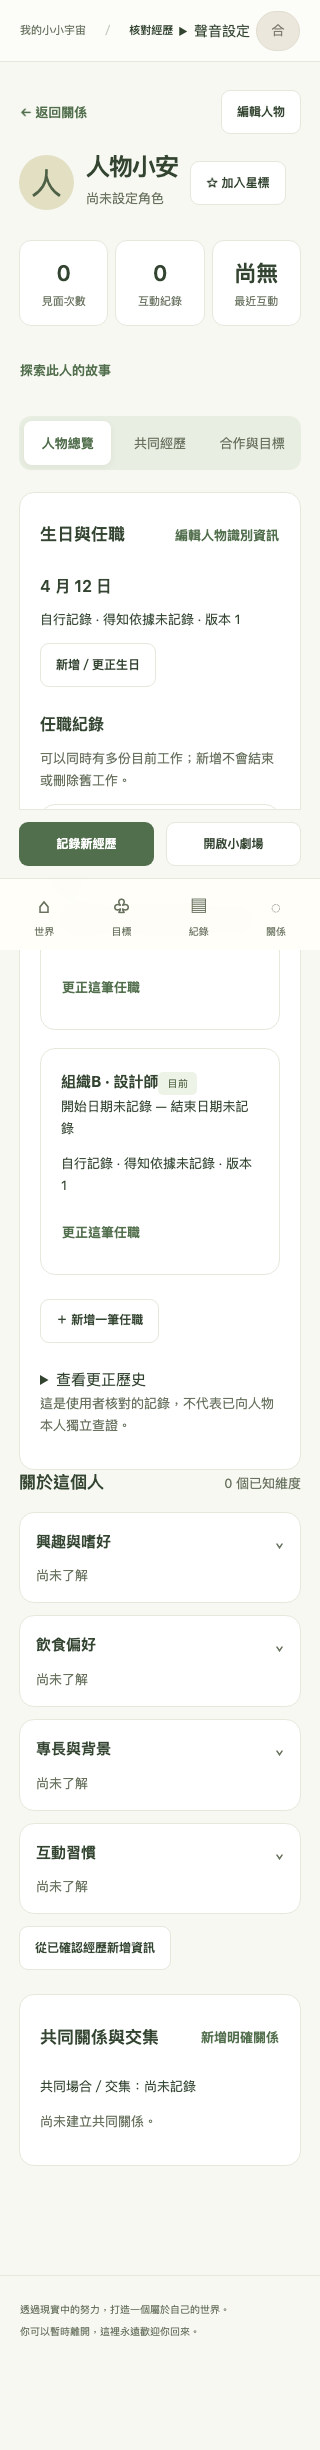
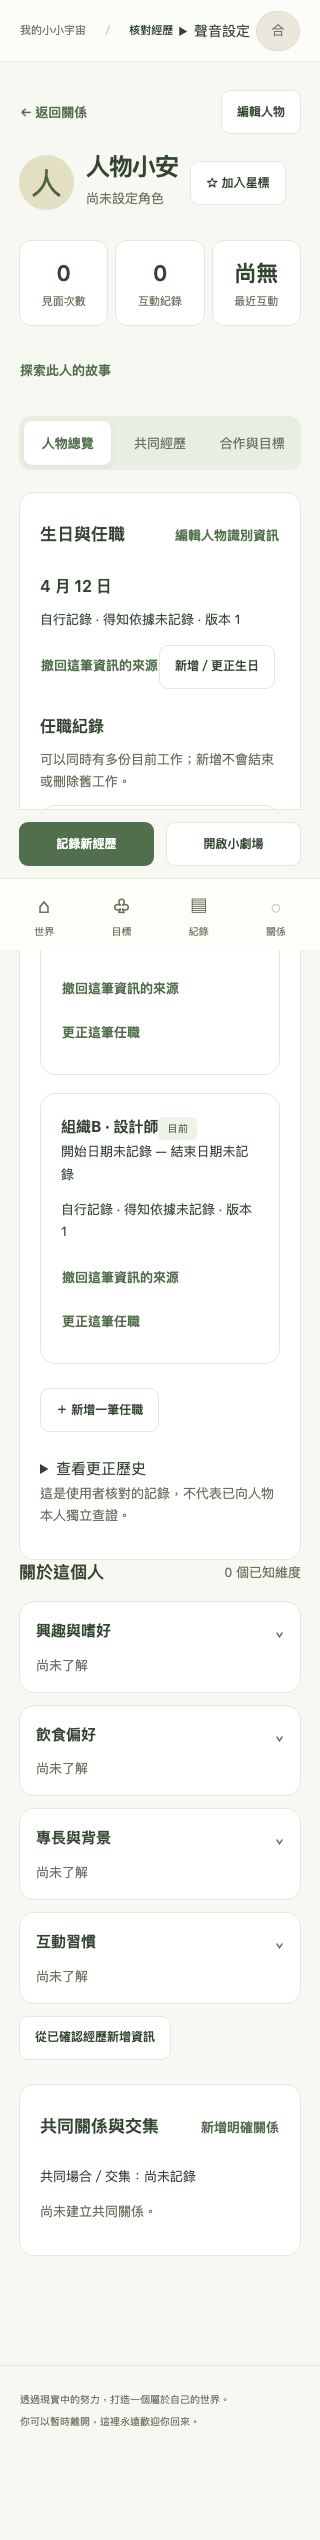
Add explicit person detail source withdrawal with atomic history and isolation tests

diff --git a/app/static/person_details.js b/app/static/person_details.js
@@ -1,24 +1,37 @@
 'use strict';
 /** 人物詳情的生日與任職，以正式API讀寫；不推算年齡、不呼叫AI、不把工作塞進標籤。 */
 window.PersonDetailsUI=(()=>{
- let c,current=null,editing=null;
+ let c,current=null,editing=null,withdrawal=null;
  const h=v=>c.esc(v),owner=()=>c.state.me?.owner_id||'',id=v=>encodeURIComponent(v);
  const status={current:'目前',past:'過去',unknown:'未知'};
  function initialize(context){c=context;current=null;editing=null;}
  function birthday(v){return v?.birth_month?`${v.birth_year?`${v.birth_year} 年 `:''}${v.birth_month} 月 ${v.birth_day} 日`:'未記錄生日';}
  function sourceButton(v){return v?.source_experience_id?`<button class="text-button" data-action="basic-source" data-source-id="${h(v.source_experience_id)}">查看原始經歷來源</button>`:'';}
+ function withdrawButton(v,kind){return v?.source_status==='active'?`<button class="text-button" data-action="basic-withdraw" data-kind="${kind}" data-employment-id="${h(v.id||'')}">撤回這筆資訊的來源</button>`:'';}
  function provenance(v){return `${{manual:'自行記錄',raw:'經歷原文'}[v.source_kind]||'待核對'} · ${{stated_by_person:'人物本人告知',observed_by_user:'使用者觀察',documented_source:'文件記載'}[v.evidence_type]||'得知依據未記錄'}${v.source_status==='withdrawn'?' · 來源已撤回，待核對':''}`;}
  function work(v){return `<strong>${h([v.company_name,v.job_title].filter(Boolean).join(' · '))}</strong><span class="tag">${h(status[v.employment_status])}</span><p class="small">${h(v.valid_from||'開始日期未記錄')} — ${h(v.valid_to||'結束日期未記錄')}</p>`;}
  async function view(pid){const ticket=owner();let data;try{data=await c.api('/people/'+id(pid)+'/details');}catch(e){if(e.status===503)return '<section class="card"><h2>生日與任職</h2><p>此環境尚未完成基本資料契約與權限驗收，目前不開放輸入。</p></section>';throw e;}if(owner()!==ticket)return '';current={owner:ticket,pid,data};
   const canEdit=data.person.status!=='archived';
-  return `<section class="card person-basic-panel"><div class="section-title"><h2>生日與任職</h2>${c.link('persons-edit/'+id(pid),'編輯人物識別資訊','text-button')}</div><div class="basic-birthday"><h3>${h(birthday(data.birthday))}</h3>${data.birthday?`<p class="small">${h(provenance(data.birthday))} · 版本 ${data.birthday.revision}</p>${sourceButton(data.birthday)}`:''}${canEdit?'<button class="secondary" data-action="basic-birthday">新增／更正生日</button>':''}</div><h3 class="space-top">任職紀錄</h3><p class="small muted">可以同時有多份目前工作；新增不會結束或刪除舊工作。</p><div class="stack">${data.employments.map(e=>`<article class="card">${work(e)}<p class="small">${h(provenance(e))} · 版本 ${e.revision}</p>${sourceButton(e)}${canEdit?`<button class="text-button" data-action="basic-work" data-employment-id="${h(e.id)}">更正這筆任職</button>`:''}</article>`).join('')||'<p>尚無任職紀錄。</p>'}</div>${canEdit?'<button class="secondary space-top" data-action="basic-work">＋ 新增一筆任職</button>':''}<details class="space-top"><summary>查看更正歷史</summary>${data.birthday_history.map(v=>`<p>生日 · 版本 ${v.revision}：${h(birthday(v))} · ${h(provenance(v))}</p>`).join('')}${data.employment_history.map(v=>`<div>任職 · 版本 ${v.revision}：${work(v)}</div>`).join('')||'<p class="small">尚無任職異動。</p>'}</details><p class="small muted">這是使用者核對的記錄，不代表已向人物本人獨立查證。</p></section>`;
+  return `<section class="card person-basic-panel"><div class="section-title"><h2>生日與任職</h2>${c.link('persons-edit/'+id(pid),'編輯人物識別資訊','text-button')}</div><div class="basic-birthday"><h3>${h(birthday(data.birthday))}</h3>${data.birthday?`<p class="small">${h(provenance(data.birthday))} · 版本 ${data.birthday.revision}</p>${sourceButton(data.birthday)}${canEdit?withdrawButton(data.birthday,'birthday'):''}`:''}${canEdit?'<button class="secondary" data-action="basic-birthday">新增／更正生日</button>':''}</div><h3 class="space-top">任職紀錄</h3><p class="small muted">可以同時有多份目前工作；新增不會結束或刪除舊工作。</p><div class="stack">${data.employments.map(e=>`<article class="card">${work(e)}<p class="small">${h(provenance(e))} · 版本 ${e.revision}</p>${sourceButton(e)}${canEdit?withdrawButton(e,'employment'):''}${canEdit?`<button class="text-button" data-action="basic-work" data-employment-id="${h(e.id)}">更正這筆任職</button>`:''}</article>`).join('')||'<p>尚無任職紀錄。</p>'}</div>${canEdit?'<button class="secondary space-top" data-action="basic-work">＋ 新增一筆任職</button>':''}<details class="space-top"><summary>查看更正歷史</summary>${data.birthday_history.map(v=>`<p>生日 · 版本 ${v.revision}：${h(birthday(v))} · ${h(provenance(v))}</p>`).join('')}${data.employment_history.map(v=>`<div>任職 · 版本 ${v.revision}：${work(v)}</div>`).join('')||'<p class="small">尚無任職異動。</p>'}</details><p class="small muted">這是使用者核對的記錄，不代表已向人物本人獨立查證。</p></section>`;
  }
  function sourceFields(v){return `<details class="space-top"><summary>資訊依據（選填）</summary><label>這項資訊從何得知？<select name="evidence_type"><option value="">自行記錄／目前不知道</option>${Object.entries({stated_by_person:'人物本人告知',observed_by_user:'我觀察到',documented_source:'文件記載'}).map(([k,n])=>`<option value="${k}"${v?.evidence_type===k?' selected':''}>${n}</option>`).join('')}</select></label><p class="small">此詳情編輯為自行記錄，不會虛構經歷ID或傳送至AI。</p></details>`;}
  function open(kind,eid){if(!current||current.owner!==owner())throw new Error('帳號已改變，請重新載入人物。');const v=kind==='birthday'?current.data.birthday:current.data.employments.find(e=>e.id===eid);editing={kind,eid,owner:owner(),pid:current.pid,revision:v?.revision||0,requestId:c.requestId('person-basic')};
   const fields=kind==='birthday'?`<p class="small">月日可獨立保存，年份選填；全部留白表示未知，不會推算年齡。</p><div class="button-row">${[['birth_year','年（選填）',1,9999],['birth_month','月',1,12],['birth_day','日',1,31]].map(([k,label,min,max])=>`<label>${label}<input name="${k}" type="number" min="${min}" max="${max}" value="${h(v?.[k]??'')}"></label>`).join('')}</div>`:`<div class="field"><label>公司／組織<input name="company_name" maxlength="300" value="${h(v?.company_name||'')}"></label></div><div class="field"><label>職稱／工作<input name="job_title" maxlength="300" value="${h(v?.job_title||'')}"></label></div><label>任職狀態<select name="employment_status">${Object.entries(status).map(([k,n])=>`<option value="${k}"${(v?.employment_status||'unknown')===k?' selected':''}>${n}</option>`).join('')}</select></label><div class="button-row"><label>開始日期（選填）<input name="valid_from" type="date" value="${h(v?.valid_from||'')}"></label><label>結束日期（選填）<input name="valid_to" type="date" value="${h(v?.valid_to||'')}"></label></div>`;
   c.dialog(`<h2 id="account-heading">${kind==='birthday'?'核對生日':eid?'核對這筆任職更正':'新增任職紀錄'}</h2><form id="person-basic-form" class="stack">${fields}${sourceFields(v)}<p class="small">按下保存代表你已核對本次輸入。失敗時內容保留；版本衝突不覆寫他人修改。</p><button class="primary" type="submit">核對並保存</button></form>`);
  }
- async function handleClick(action,target){if(action==='basic-source'){const ticket=owner(),data=await c.api('/connections/stories/'+id(target.dataset.sourceId)+'?manage=true');if(owner()!==ticket)return true;c.dialog(`<h2 id="account-heading">原始經歷來源</h2><p class="record-content">${h(data.raw_text)}</p><p class="small">原始內容沒有被摘要覆寫；這次查看不修改任何資料。</p>`);return true;}if(action==='basic-birthday'){open('birthday');return true;}if(action==='basic-work'){open('employment',target.dataset.employmentId);return true;}return false;}
+ async function handleClick(action,target){if(action==='basic-withdraw'){
+  if(!current||current.owner!==owner())throw new Error('帳號已改變，請重新載入。');
+  const kind=target.dataset.kind,value=kind==='birthday'?current.data.birthday:current.data.employments.find(e=>e.id===target.dataset.employmentId);
+  if(!value)throw new Error('找不到可撤回的資料。');
+  withdrawal={owner:owner(),pid:current.pid,kind,eid:value.id,revision:value.revision,requestId:c.requestId('person-source-withdrawal')};
+  c.dialog('<h2 id="account-heading">撤回這筆資訊的來源？</h2><p>保留原始資料與歷史，並標示來源已撤回、需要重新核對。這不會刪除原經歷、其他人物資料、進度或獎勵。</p><div class="button-row"><button class="secondary" data-action="close-account">保留來源</button><button class="danger" data-action="basic-confirm-withdraw">確認撤回來源</button></div>');return true;
+ }if(action==='basic-confirm-withdraw'){
+  const w=withdrawal;if(!w||w.owner!==owner())throw new Error('帳號已改變，請重新載入。');
+  const prefix='/people/'+id(w.pid),path=w.kind==='birthday'?prefix+'/basic-details/source-withdrawal':prefix+'/employments/'+id(w.eid)+'/source-withdrawal';
+  await c.api(path,{method:'POST',body:{request_id:w.requestId,expected_revision:w.revision,confirmed:true}});
+  if(owner()!==w.owner||withdrawal!==w)return true; // 回應到達時若已換帳號或另開操作，不關閉新的對話框。
+  withdrawal=null;document.querySelector('#account-dialog').close();await c.render();c.toast('來源已撤回，原始資料與歷史保留。');return true;
+ }if(action==='basic-source'){const ticket=owner(),data=await c.api('/connections/stories/'+id(target.dataset.sourceId)+'?manage=true');if(owner()!==ticket)return true;c.dialog(`<h2 id="account-heading">原始經歷來源</h2><p class="record-content">${h(data.raw_text)}</p><p class="small">原始內容沒有被摘要覆寫；這次查看不修改任何資料。</p>`);return true;}if(action==='basic-birthday'){open('birthday');return true;}if(action==='basic-work'){open('employment',target.dataset.employmentId);return true;}return false;}
  async function handleSubmit(form){if(form.id!=='person-basic-form')return false;if(!editing||editing.owner!==owner())throw new Error('帳號已改變，請重新載入。');const f=new FormData(form),value={};
   if(editing.kind==='birthday')for(const k of ['birth_year','birth_month','birth_day'])value[k]=f.get(k)===''?null:Number(f.get(k));
   else{for(const k of ['company_name','job_title','employment_status'])value[k]=String(f.get(k)||'');for(const k of ['valid_from','valid_to'])value[k]=f.get(k)||null;}

diff --git a/tests/test_person_basic_api.py b/tests/test_person_basic_api.py
@@ -89,3 +89,45 @@ def test_employment_patch_cannot_clear_both_fields(client):
     assert r.status_code==422
     d=client.get('/api/people/'+p+'/details').json()
     assert d['employments'][0]['company_name']=='組織' and len(d['employment_history'])==1
+
+
+def test_basic_source_withdrawal_preserves_values_history_and_retry(client,app):
+    p=person(client);prefix='/api/people/'+p
+    birthday=client.patch(prefix+'/basic-details',json={'request_id':'b-source','expected_revision':0,'confirmed':True,'value':{'birth_month':2,'birth_day':29},'source':{'source_kind':'manual'}}).json()
+    job=client.post(prefix+'/employments',json={'request_id':'j-source','confirmed':True,'value':{'company_name':'組織甲'},'source':{'source_kind':'manual'}}).json()
+    for path,revision in [(prefix+'/basic-details/source-withdrawal',birthday['revision']),(prefix+'/employments/'+job['id']+'/source-withdrawal',job['revision'])]:
+        body={'request_id':'withdraw','expected_revision':revision,'confirmed':True}
+        assert client.post(path,json=body|{'confirmed':False}).status_code==422
+        with TestClient(app) as other:
+            onboard(other);register(other,'source_other_'+str(revision)+('b' if 'basic-details' in path else 'j'))
+            assert other.post(path,json=body).status_code==404
+        r=client.post(path,json=body);assert r.status_code==200,r.text
+        assert r.json()['source_status']=='withdrawn'
+        assert client.post(path,json=body).json()==r.json()
+        assert client.post(path,json=body|{'request_id':'stale'}).status_code==409
+    details=client.get(prefix+'/details').json()
+    assert details['birthday']['birth_month']==2 and details['birthday']['revision']==2
+    assert details['employments'][0]['company_name']=='組織甲'
+    for history in [details['birthday_history'],details['employment_history']]:
+        assert len(history)==2 and history[-1]['change_kind']=='source_withdrawn'
+        assert history[0]['source_status']=='active' and history[-1]['source_status']=='withdrawn'
+
+
+def test_source_withdrawal_csrf_conflict_and_transaction_rollback(client,app,monkeypatch):
+    from app.errors import DomainError
+    p=person(client);prefix='/api/people/'+p
+    assert client.patch(prefix+'/basic-details',json={'request_id':'birthday','expected_revision':0,'confirmed':True,'value':{'birth_month':4,'birth_day':12},'source':{'source_kind':'manual'}}).status_code==200
+    url=prefix+'/basic-details/source-withdrawal';body={'request_id':'withdraw-atomic','expected_revision':1,'confirmed':True}
+    assert client.post(url,json=body,headers={'X-CSRF-Token':'invalid'}).status_code==403
+    def fail_receipt(*args,**kwargs):
+        raise DomainError(503,'synthetic_receipt_failure','合成收據失敗')
+    with monkeypatch.context() as m:
+        m.setattr(app.state.service,'_remember',fail_receipt)
+        assert client.post(url,json=body).status_code==503
+    d=client.get(prefix+'/details').json()
+    assert d['birthday']['revision']==1 and d['birthday']['source_status']=='active' and len(d['birthday_history'])==1
+    assert client.post(url,json=body).status_code==200
+    assert client.post(url,json=body|{'expected_revision':2}).status_code==409
+    # 已撤回後另一次明確確認為無變更，不增加歷史或自行恢復來源。
+    assert client.post(url,json=body|{'request_id':'already-withdrawn','expected_revision':2}).status_code==200
+    assert len(client.get(prefix+'/details').json()['birthday_history'])==2

diff --git a/app/person_details.py b/app/person_details.py
@@ -114,6 +114,37 @@ class PersonDetailsMixin:
             self._remember(c,owner,operation,data.request_id,fingerprint,result)
             return result
 
+    def withdraw_person_detail_source(self,owner,pid,data,kind,employment_id=None):
+        """只撤回指定目前值的來源；保留原值/舊版本，不替使用者判斷其他資料或刪除經歷。"""
+        with self.db.connect(write=True,owner=owner) as c:
+            self._details_person(c,owner,pid,True)
+            require(data.confirmed,422,'confirmation_required','請先確認撤回這筆人物資訊的來源。')
+            operation='person-details:withdraw:'+kind+':'+pid+(':'+employment_id if employment_id else '')
+            cached,fingerprint=self._cached(c,owner,operation,data.request_id,data.model_dump(mode='json'))
+            if cached:return cached
+            if kind=='birthday':
+                current=self._birthday_current(c,owner,pid)
+            else:
+                row=c.execute('SELECT * FROM person_employments WHERE id=? AND person_id=? AND owner_id=?',(employment_id,pid,owner)).fetchone()
+                current=dict(row) if row else None
+            require(current is not None,404,'not_found','找不到可撤回來源的人物資料。')
+            require(current['revision']==data.expected_revision,409,'revision_conflict','人物資料已有新版，請重新核對。')
+            if current['source_status']!='withdrawn':
+                now=self.now().isoformat()
+                current.update(source_status='withdrawn',revision=current['revision']+1,updated_at=now)
+                table='person_basic_details' if kind=='birthday' else 'person_employments'
+                key='person_id' if kind=='birthday' else 'id'
+                c.execute('UPDATE '+table+' SET source_status=?,revision=?,updated_at=? WHERE '+key+'=? AND owner_id=?',
+                          ('withdrawn',current['revision'],now,pid if kind=='birthday' else employment_id,owner))
+                # History append-only；source_withdrawn版保留原始quote/confirmed_at，不冒稱重新核對過內容。
+                history={k:v for k,v in current.items() if k not in ('id','created_at','updated_at')}
+                history.update(id=uid(),change_kind='source_withdrawn',recorded_at=now)
+                if kind=='employment':history['employment_id']=employment_id
+                history_table='person_basic_detail_history' if kind=='birthday' else 'person_employment_history'
+                c.execute('INSERT INTO '+history_table+'('+','.join(history)+') VALUES ('+','.join('?' for _ in history)+')',tuple(history.values()))
+            self._remember(c,owner,operation,data.request_id,fingerprint,current)
+            return current
+
     def _apply_person_basic_candidates(self,c,owner,draft,data,refs,experience_id):
         """Confirm已建經歷後套用各人已核對的基本資料；任何失敗一併回滾獎勵/人物/經歷。"""
         linked=set()

diff --git a/browser_tests/test_integration_person_details.py b/browser_tests/test_integration_person_details.py
@@ -69,3 +69,23 @@ def test_saved_draft_delete_only_clears_its_media_scope(page):
     assert page.request.get(BASE+'/api/drafts/'+d['id']).status==404
     present=page.evaluate('''async keys=>await new Promise((resolve,reject)=>{const r=indexedDB.open('lifeworld-media-local',1);r.onsuccess=()=>{const db=r.result,tx=db.transaction('workspaces','readonly'),store=tx.objectStore('workspaces'),results=[];for(const k of keys){const q=store.get(k);q.onsuccess=()=>results.push([k,!!q.result]);}tx.oncomplete=()=>{db.close();resolve(Object.fromEntries(results));};tx.onerror=reject;};})''',keys)
     assert not present[keys[0]] and present[keys[1]] and present[keys[2]]
+
+
+@pytest.mark.parametrize('width',[390,1440])
+def test_source_withdrawal_cancel_and_confirm_keep_history(page,width):
+    page.set_viewport_size({'width':width,'height':950})
+    p,headers=seed(page);prefix=BASE+'/api/people/'+p['id']
+    r=page.request.patch(prefix+'/basic-details',headers=headers,data={'request_id':uuid4().hex,'expected_revision':0,'confirmed':True,'value':{'birth_month':4,'birth_day':12},'source':{'source_kind':'manual'}});assert r.ok,r.text()
+    page.goto(BASE+'/#persons/'+p['id']);page.reload()
+    page.get_by_role('button',name='撤回這筆資訊的來源',exact=True).click()
+    page.get_by_role('button',name='保留來源',exact=True).click()
+    assert page.request.get(prefix+'/details').json()['birthday']['source_status']=='active'
+    page.get_by_role('button',name='撤回這筆資訊的來源',exact=True).click()
+    page.get_by_role('button',name='確認撤回來源',exact=True).click()
+    expect(page.locator('#account-dialog')).not_to_be_visible()
+    expect(page.locator('.person-basic-panel')).to_contain_text('來源已撤回，待核對')
+    d=page.request.get(prefix+'/details').json()
+    assert d['birthday']['birth_month']==4 and len(d['birthday_history'])==2
+    assert d['birthday_history'][-1]['change_kind']=='source_withdrawn'
+    ART.mkdir(parents=True,exist_ok=True)
+    page.screenshot(path=str(ART/f'{width}-source-withdrawn.png'),full_page=True)

diff --git a/app/main.py b/app/main.py
@@ -506,6 +506,14 @@ def create_app(data_dir=None, policy=None, clock=None, database=None, settings=N
     def update_employment(person_id: str, employment_id: str, request: Request, data: schemas.EmploymentPatch):
         return service.write_person_details(current(request, True)['id'], person_id, data, 'employment', employment_id)
 
+    @app.post('/api/people/{person_id}/basic-details/source-withdrawal', tags=['People'])
+    def withdraw_birthday_source(person_id: str, request: Request, data: schemas.PersonDetailSourceWithdrawal):
+        return service.withdraw_person_detail_source(current(request, True)['id'], person_id, data, 'birthday')
+
+    @app.post('/api/people/{person_id}/employments/{employment_id}/source-withdrawal', tags=['People'])
+    def withdraw_employment_source(person_id: str, employment_id: str, request: Request, data: schemas.PersonDetailSourceWithdrawal):
+        return service.withdraw_person_detail_source(current(request, True)['id'], person_id, data, 'employment', employment_id)
+
     @app.post('/api/people', status_code=201, tags=['People'])  # 註冊此 HTTP 路由、例外處理器或中介層
     def create_person(request: Request, data: schemas.PersonCreate):  # 建立人物並保留舊角色欄位的相容性
         return service.create_person(current(request, True)['id'], data)  # 回傳建立人物並保留舊角色欄位的相容性的結果

diff --git a/app/schemas.py b/app/schemas.py
@@ -303,6 +303,12 @@ class EmploymentPatch(Model):
     source: PersonDetailSource
 
 
+class PersonDetailSourceWithdrawal(Model):
+    request_id: str = Field(min_length=1, max_length=128)
+    expected_revision: StrictInt = Field(ge=1)
+    confirmed: StrictBool
+
+
 class TargetBirthdayUpdate(Model):
     target: PersonUpdateTarget
     expected_revision: StrictInt = Field(ge=0)

diff --git a/tests/test_pg_integration_person_details.py b/tests/test_pg_integration_person_details.py
@@ -36,6 +36,8 @@ from test_person_basic_api import (
  test_confirm_two_new_people_basic_data_and_retry,
  test_confirm_late_basic_conflict_rolls_back_all_rows,
  test_employment_patch_cannot_clear_both_fields,
+ test_basic_source_withdrawal_preserves_values_history_and_retry,
+ test_source_withdrawal_csrf_conflict_and_transaction_rollback,
 )
 
 

diff --git a/docs/integration/2026-11-11/INTEGRATION_RELEASE_REPORT.md b/docs/integration/2026-11-11/INTEGRATION_RELEASE_REPORT.md
@@ -46,3 +46,11 @@
 
 - 最小DML提案補驗：先重現table-level UPDATE允許Owner改派的負向紅燈，改為欄位UPDATE後16 PASS；Owner/person_id/id不可改，History不能UPDATE/DELETE。只改本機marker副本，正式GRANT仍待審查。
 - 完整套件最新718 PASS、49 SKIP；其後僅追加1項PG專用負向測試及本機fixture欄位授權修改，16項PG套件已涵蓋該變更。
+
+## 來源撤回增量驗收
+
+- 生日與指定任職新增明確source-withdrawal API及詳情頁二次確認。原值、quote、confirmed_at與舊版本保留，僅source_status/revision/updated_at更新、追加source_withdrawn歷史。
+- 正常/未確認/跨Owner/CSRF/版本/同request不同payload/重試/再次撤回無變更皆測試。注入收據失敗時目前值、History及request收據一併回滾；PG受限欄位DML不擴大。
+- 最新完整本機API：720 PASS、52 SKIP。獨立本機PG18 suite：18 PASS。人物資料Chromium（含390/1440撤回取消/確認）：6 PASS。真Google/GCP/AI仍NOT RUN；不是整體產品完成。
+- 現有Feature Store PG表不存在，人物基本資料尚未接AI上下文；衍生特徵失效仍IN PROGRESS，不以來源狀態API代替長期記憶驗收。
+- 本輪唯讀remote核對main仍68102f230aa947a434286ba9260e1ae75f6634b0。沒有Merge、Deploy、正式Migration或GRANT。
